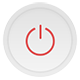
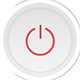
结构化DebugPrint信息；优化关闭按钮UX和UI；

diff --git a/智能家居系统/MainForm.cs b/智能家居系统/MainForm.cs
@@ -144,6 +144,7 @@ namespace 智能家居系统
             CardLabel.MouseUp += new MouseEventHandler(Button_MouseUp);
 
             ExitButton.MouseEnter += new EventHandler(Button_MouseEnter);
+            ExitButton.MouseDown += new MouseEventHandler(Button_MouseDown);
             ExitButton.MouseLeave += new EventHandler(Button_MouseLeave);
 
             //家电名称和描述显示控件鼠标进入或离开时改变编辑按钮的可见性
@@ -310,6 +311,7 @@ namespace 智能家居系统
                         {
                             UnityModule.DebugPrint("读取家电列表时出错：\n\t\t\t" + DeviceName ?? "未知家电" + " (" + Model ?? "未知型号" + ")" + ex.Message);
                         }
+                        UnityModule.DebugPrint("——————————");
                     }
                 }
                 DataReader.Close();
@@ -335,6 +337,7 @@ namespace 智能家居系统
                         {
                             UnityModule.DebugPrint("移除家电[{0}]时遇到错误：{1}" ,MAC,ex.Message);
                         }
+                        UnityModule.DebugPrint("——————————");
                     }
                 }
                 DataReader.Close();
@@ -410,8 +413,6 @@ namespace 智能家居系统
         {
             if (!AllowToClose)
             {
-                ExitButton.Image = UnityResource.ExitApp_2;
-                ExitButton.Refresh();
                 ExitButton.Image = UnityResource.ExitApp_1;
                 if (new MyMessageBox("您真的要退出智能家居系统吗？", MyMessageBox.IconType.Question).ShowDialog(this) != DialogResult.OK)
                 {
@@ -582,6 +583,7 @@ namespace 智能家居系统
                     ShowDomesticApplianceEventLog(DomesticApplianceItem.ActiveItem.MAC);
                 }
             }
+            UnityModule.DebugPrint("——————————————————————————");
         }
 
     }
